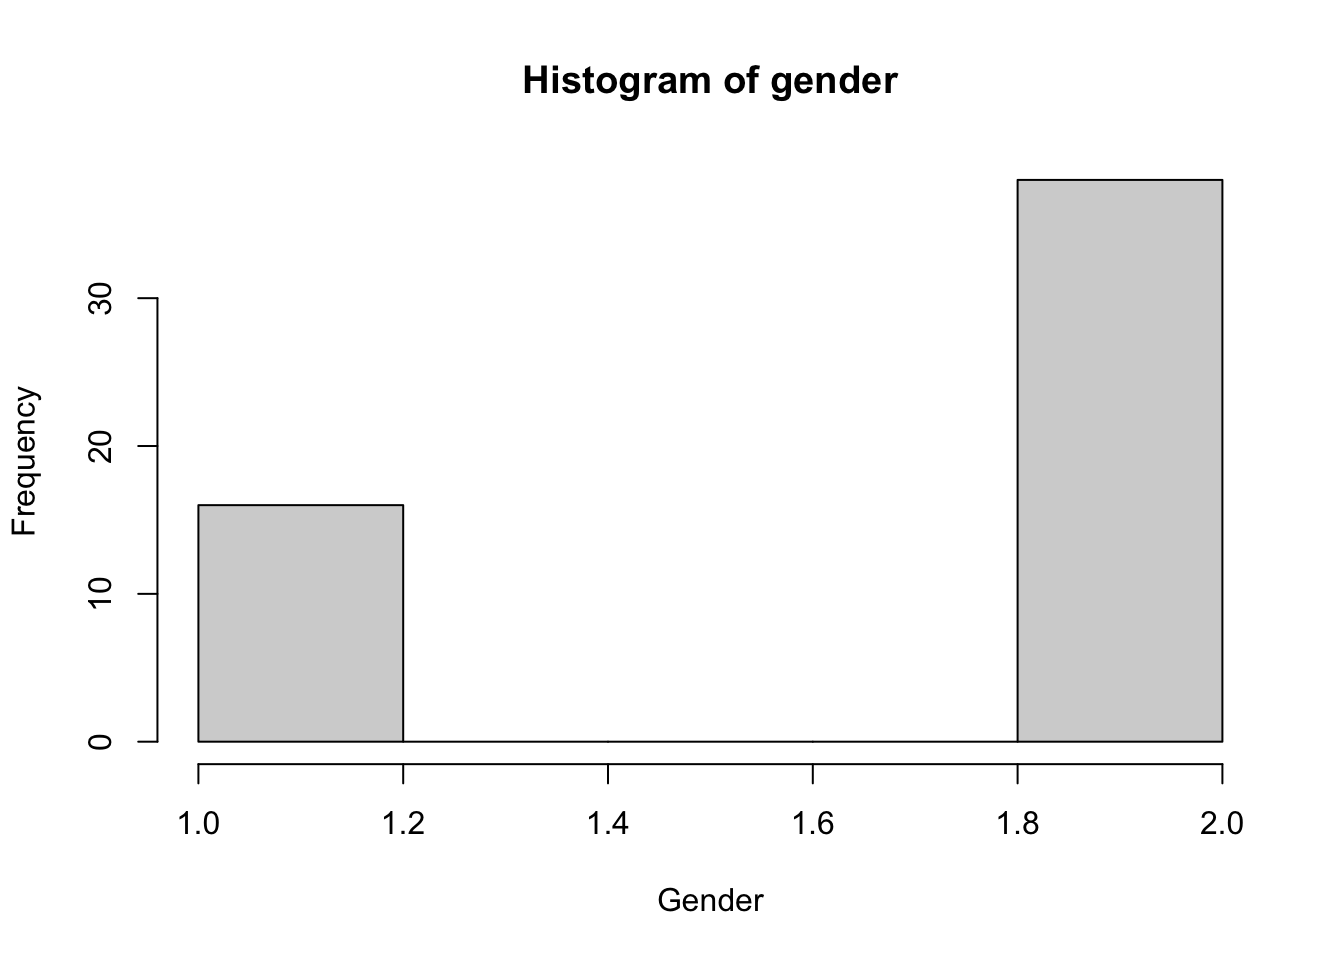
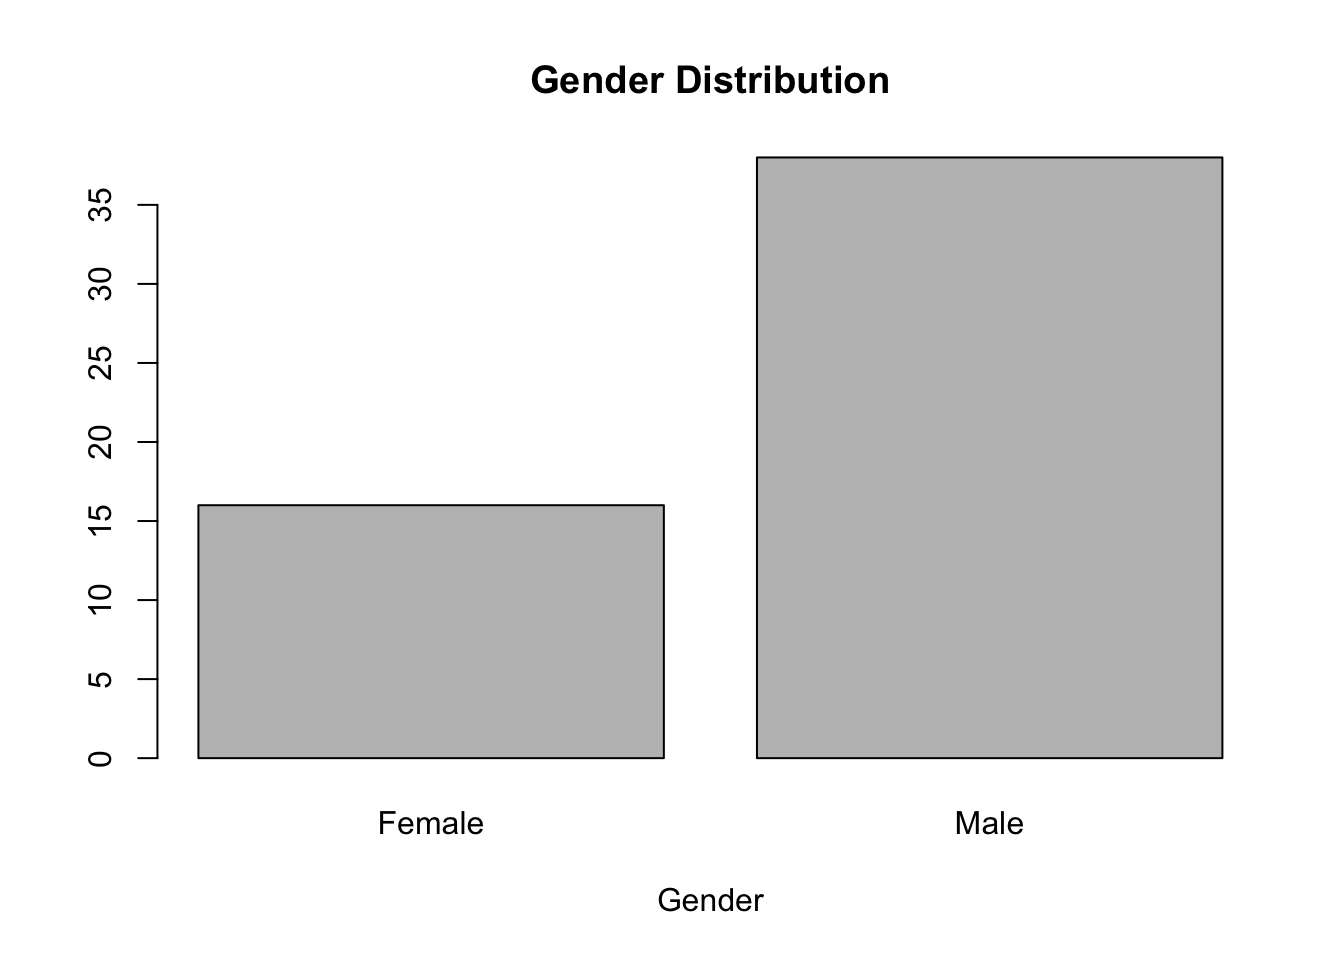
Added bar chart and pie chart

diff --git a/docs/Journal.html b/docs/Journal.html
@@ -345,8 +345,10 @@ div.tocify {
 
 <div id="exploratory-data-analysis" class="section level1">
 <h1>Exploratory Data Analysis</h1>
-<p>2021 | 9 | 13 Last compiled: 2021-09-12</p>
+<p>2021 | 9 | 13 Last compiled: 2021-09-13</p>
 <p>How should we proceed with exploratory data analysis? For this session we’re going to be using a dataset that I made up. We will soon use real data, but for now I’m trying to make things simple.</p>
+<p>EDA is one of the most important skills of a statistician. It is what I do whenever I open a new dataset. It requires careful thinking and analysis, and is not something that can be replaced by a machine (yet).</p>
+<p>Throughout this post I use text from DVB and HS.</p>
 </div>
 <div id="load-data" class="section level1">
 <h1>Load data</h1>
@@ -424,10 +426,15 @@ if (!require(&#39;dplyr&#39;)) install.packages(&#39;dplyr&#39;); library(&#39;d
 <pre><code>## .
 ## female   male 
 ##     16     38</code></pre>
-<p>We could also make a histogram of gender, but it’s less interesting.</p>
+</div>
+<div id="bar-chart-or-bar-plot" class="section level1">
+<h1>Bar chart or bar plot</h1>
+<p>We could also make a barchart or barplot of gender.</p>
 <pre class="r"><code># Histogram of gender.
-hist(as.numeric(as.factor((dat$gender))), main=&quot;Histogram of gender&quot;, xlab=&quot;Gender&quot;)</code></pre>
+counts &lt;- table(dat$gender)
+barplot(counts, main=&quot;Gender Distribution&quot;, xlab=&quot;Gender&quot;, names=c(&quot;Female&quot;, &quot;Male&quot;))</code></pre>
 <p><img src="Journal_files/figure-html/unnamed-chunk-6-1.png" width="672" /></p>
+<p>A bar chart displays the distribution of a categorical variable, showing the counts for each category next to each other for easy comparison. Bar charts should have small spaces between the bars to indicate that these are freestanding bars that could be rearranged into any order.</p>
 </div>
 <div id="crime-type" class="section level1">
 <h1>Crime type</h1>
